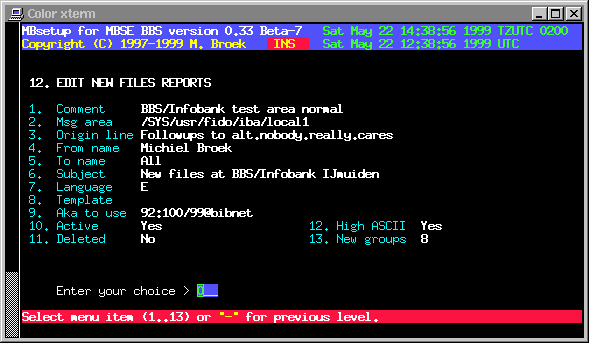
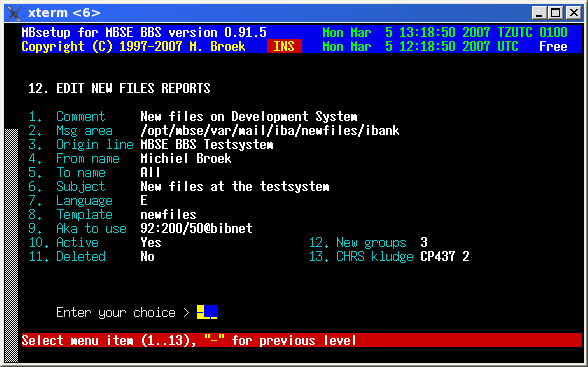
Filefind setup now has CHRS selection

diff --git a/html/setup/newfiles.html b/html/setup/newfiles.html
@@ -14,7 +14,7 @@
 </HEAD>
 <BODY>
 <BLOCKQUOTE>
-<div align='right'><h5>Last update 30-Jan-2001</h5></div>
+<div align='right'><h5>Last update 05-Mar-2007</h5></div>
 <div align='center'><H1>MBSE BBS Setup - Newfiles Reports.</H1></div>
 
 <H3>Introduction.</H3>
@@ -38,8 +38,8 @@ specified by the newfiles groups you can include or exclude for announcement.
 <strong>Aka to use  </strong>The Fidonet aka to use in this area.
 <strong>Active      </strong>If this report is active.
 <strong>Deleted     </strong>If this report must be deleted.
-<strong>High ASCII  </strong>Allow high ASCII in this area.
 <strong>New groups  </strong>The screen to define the groups to include.
+<strong>CHRS kludge </strong>The CHRS kludge an encoding to use.
 </pre>
 <P>
 

diff --git a/html/setup/filefind.html b/html/setup/filefind.html
@@ -14,7 +14,7 @@
 </HEAD>
 <BODY>
 <BLOCKQUOTE>
-<div align='right'><h5>Last update 17-Mar-2004</h5></div>
+<div align='right'><h5>Last update 05-Mar-2007</h5></div>
 <div align='center'><H1>MBSE BBS Setup - Filefind Areas.</H1></div>
 
 <H3>Introduction.</H3>
@@ -43,7 +43,7 @@ for.
 <strong>Active      </strong>If this area is active.
 <strong>Deleted     </strong>If this area must be deleted.
 <strong>Net. reply  </strong>If the reply will be sent by netmail.
-<strong>Hi ACSII    </strong>If high ASCII is allowed in the replies.
+<strong>CHRS kludge </strong>The CHRS kludge and encoding to use.
 <strong>Keywrd len  </strong>The minimum keyword length allowed in search.
 </pre>
 <P>

diff --git a/mbsetup/m_ff.c b/mbsetup/m_ff.c
@@ -4,7 +4,7 @@
  * Purpose ...............: Filefind Setup
  *
  *****************************************************************************
- * Copyright (C) 1997-2005
+ * Copyright (C) 1997-2007
  *   
  * Michiel Broek		FIDO:		2:280/2802
  * Beekmansbos 10
@@ -124,6 +124,10 @@ int OpenFilefind(void)
 				    scanmgr.keywordlen = 3;
 				    FilefindUpdated = 1;
 				}
+				if (scanmgr.charset == 0) {
+				    scanmgr.charset = FTNC_CP437;
+				    FilefindUpdated = 1;
+				}
 				fwrite(&scanmgr, sizeof(scanmgr), 1, fout);
 				memset(&scanmgr, 0, sizeof(scanmgr));
 			}
@@ -200,6 +204,7 @@ int AppendFilefind(void)
 		snprintf(scanmgr.template, 15, "filefind");
 		strncpy(scanmgr.Origin, CFG.origin, 50);
 		scanmgr.keywordlen = 3;
+		scanmgr.charset = FTNC_CP437;
 		fwrite(&scanmgr, sizeof(scanmgr), 1, fil);
 		fclose(fil);
 		FilefindUpdated = 1;
@@ -226,7 +231,7 @@ void FFScreen(void)
 	mbse_mvprintw(14, 2, "8.  Active");
 	mbse_mvprintw(15, 2, "9.  Deleted");
 	mbse_mvprintw(16, 2, "10. Net. reply");
-	mbse_mvprintw(17, 2, "11. Hi Ascii");
+	mbse_mvprintw(17, 2, "11. CHRS kludge");
 	mbse_mvprintw(18, 2, "12. Keywrd len");
 }
 
@@ -279,7 +284,7 @@ int EditFfRec(int Area)
 	show_bool(14,18,    scanmgr.Active);
 	show_bool(15,18,    scanmgr.Deleted);
 	show_bool(16,18,    scanmgr.NetReply);
-	show_bool(17,18,    scanmgr.HiAscii);
+	show_charset(17,18, scanmgr.charset);
 	show_int( 18,18,    scanmgr.keywordlen);
 		
 	switch(select_menu(12)) {
@@ -317,7 +322,8 @@ int EditFfRec(int Area)
 	    case 8: E_BOOL(14,18,    scanmgr.Active,    "If this report is ^active^")
 	    case 9: E_BOOL(15,18,    scanmgr.Deleted,   "If this record is ^deleted^")
 	    case 10:E_BOOL(16,18,    scanmgr.NetReply,  "If reply's via ^netmail^ instead of echomail")
-	    case 11:E_BOOL(17,18,    scanmgr.HiAscii,   "Allow ^Hi ASCII^ in this area")
+	    case 11:scanmgr.charset = edit_charset(17,18, scanmgr.charset);
+		    break;
 	    case 12:E_IRC( 18,18,    scanmgr.keywordlen, 3, 8, "Minimum ^keyword length^ to allowed for search")
 	}
     }
@@ -478,7 +484,7 @@ int ff_doc(FILE *fp, FILE *toc, int page)
 	    add_webtable(wp, (char *)"Template file", scanmgr.template);
 	    add_webtable(wp, (char *)"Active", getboolean(scanmgr.Active));
 	    add_webtable(wp, (char *)"Netmail reply", getboolean(scanmgr.NetReply));
-	    add_webtable(wp, (char *)"Allow Hi-ASCII", getboolean(scanmgr.HiAscii));
+	    add_webtable(wp, (char *)"CHRS kludge", getftnchrs(scanmgr.charset));
 	    add_webdigit(wp, (char *)"Keyword length", scanmgr.keywordlen);
 	    fprintf(wp, "</TBODY>\n");
 	    fprintf(wp, "</TABLE>\n");
@@ -523,7 +529,7 @@ int ff_doc(FILE *fp, FILE *toc, int page)
 	fprintf(fp, "     Template file     %s\n", scanmgr.template);
 	fprintf(fp, "     Active            %s\n", getboolean(scanmgr.Active));
 	fprintf(fp, "     Netmail reply     %s\n", getboolean(scanmgr.NetReply));
-	fprintf(fp, "     Allow Hi-ASCII    %s\n", getboolean(scanmgr.HiAscii));
+	fprintf(fp, "     CHRS kludge       %s\n", getftnchrs(scanmgr.charset));
 	fprintf(fp, "     Keyword length    %d\n", scanmgr.keywordlen);
 	fprintf(fp, "\n\n");
 	j++;

diff --git a/mbfido/filefind.c b/mbfido/filefind.c
@@ -169,11 +169,12 @@ int StartReply(ff_list *ffl)
     }
     Msg_New();
 
+    chartran_init((char *)"CP437", get_ic_ftn(scanmgr.charset), 'f');
     temp = calloc(PATH_MAX, sizeof(char));
 
     snprintf(Msg.From, 101, "%s", CFG.sysop_name);
-    snprintf(Msg.To, 101, "%s", ffl->from);
-    snprintf(Msg.Subject, 101, "Re: %s", ffl->subject);
+    snprintf(Msg.To, 101, "%s", chartran(ffl->from));
+    snprintf(Msg.Subject, 101, "Re: %s", chartran(ffl->subject));
     snprintf(Msg.FromAddress, 101, "%s", aka2str(scanmgr.Aka));
     Msg.Written = time(NULL);
     Msg.Arrived = time(NULL);
@@ -193,7 +194,7 @@ int StartReply(ff_list *ffl)
     MsgText_Add2(temp);
     Msg.ReplyCRC = upd_crc32(temp, crc, strlen(temp));
     free(temp);
-    Msg_Pid(FTNC_NONE);
+    Msg_Pid(scanmgr.charset);
     return Msg_Top(scanmgr.template, scanmgr.Language, scanmgr.Aka);
 }
 
@@ -222,6 +223,8 @@ void FinishReply(int Reported, int Total, int filepos)
     Msg_AddMsg();
     Msg_UnLock();
     Syslog('+', "Posted message %ld", Msg.Id);
+
+    chartran_close();
 
     snprintf(temp, PATH_MAX, "%s/tmp/%smail.jam", getenv("MBSE_ROOT"), scanmgr.NetReply?"net":"echo");
     if ((fp = fopen(temp, "a")) != NULL) {
@@ -408,7 +411,7 @@ void ScanFiles(ff_list *tmp)
 				break;
 			mbsedb_CloseFDB(fdb_area);
 			MacroVars("slbkdt", "ssddss", fdb.Name, fdb.LName, fdb.Size, fdb.Size / 1024, " ",
-					To_Low(fdb.Desc[0],scanmgr.HiAscii));
+					chartran(fdb.Desc[0]));
 			fseek(fi, filepos1, SEEK_SET);
 			Msg_Macro(fi);
 			filepos2 = ftell(fi);
@@ -419,7 +422,7 @@ void ScanFiles(ff_list *tmp)
 			 * to prevent unnecesary long messages.
 			 */
 			for (i = 1; i < MAX_DESC_LINES; i++) {
-			    MacroVars("t", "s", To_Low(fdb.Desc[i],scanmgr.HiAscii));
+			    MacroVars("t", "s", chartran(fdb.Desc[i]));
 			    fseek(fi, filepos2, SEEK_SET);
 			    if (strlen(fdb.Desc[i])) {
 				Msg_Macro(fi);

diff --git a/mbfido/msgutil.c b/mbfido/msgutil.c
@@ -270,30 +270,3 @@ void CountPosted(char *Base)
 }
 
 
-
-char *To_Low(char *inp, int High)
-{
-    static char	temp[81];
-    int		i;
-
-    memset(&temp, 0, sizeof(temp));
-    strncpy(temp, inp, 80);
-
-    /*
-     * Change " into ' because the diesel macro processor gets confused by
-     * the " characters.
-     */
-    for (i = 0; i < strlen(temp); i++)
-	if (temp[i] == '"')
-	    temp[i] = '\'';
-
-    if (High)
-	return temp;
-
-    for (i = 0; i < strlen(temp); i++)
-	temp[i] = lotab[temp[i] & 0xff];
-
-    return temp;
-}
-
-

diff --git a/mbfido/msgutil.h b/mbfido/msgutil.h
@@ -10,7 +10,6 @@ void	Msg_Macro(FILE *);
 int	Msg_Top(char *, int, fidoaddr);
 void	Msg_Bot(fidoaddr, char *, char *);
 void	CountPosted(char *);
-char	*To_Low(char *, int);
 
 #endif
 
